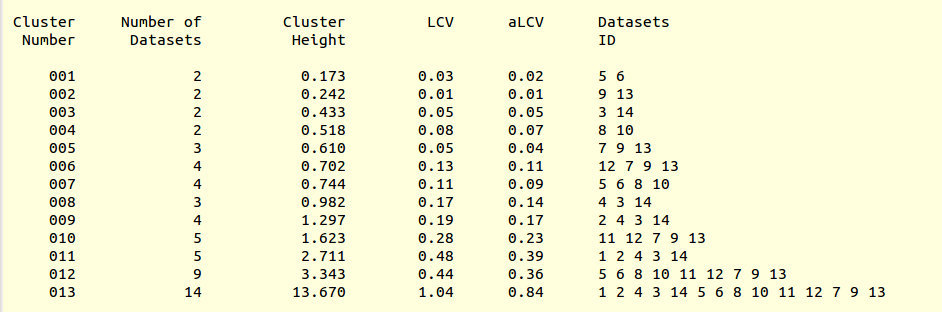
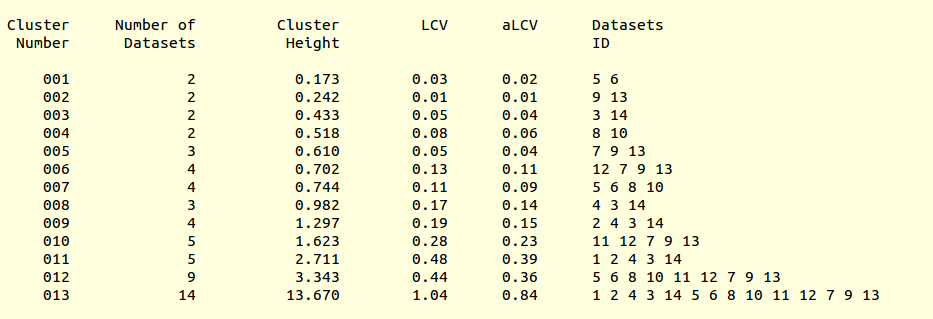
CHANGES IN VERSION 0.5.8 - 08/10/2014 - Further bug fixes for aLCV calculation

diff --git a/additional_material/BLEND_tutorial.html b/additional_material/BLEND_tutorial.html
@@ -495,9 +495,9 @@ interface, but the user
  <FONT SIZE=4>
  Cluster
  numbers and corresponding data sets are listed in column 1 and column
- 5 respectively. The second column reports how many data sets form the
+ 6 respectively. The second column reports how many data sets form the
  specific cluster, while in column 3 it is found the exact height at
- which data sets merge to form the cluster. Column 4 lists all LCV
+ which data sets merge to form the cluster. Columns 4 and 5 lists all LCV and aLCV
  values. The dendrogram encourages people to look for grouping of
  individual data sets. Larger groups attract one's attention more than
  smaller groups. In this sense the presence of two clusters, cluster
@@ -1154,7 +1154,7 @@ interface, but the user
 <P>
  <FONT SIZE=4>
  As
- we can see, the new LCV is much smaller, although the value 1.68% (and the absolute LCV value 1.46 &Aring;)
+ we can see, the new LCV is much smaller, although the value 1.68% (and the absolute LCV value 1.54 &Aring;)
  still indicates some non-isomorphism among all crystals. We know this
  is the case because crystals have been assembled from
  differently-prepared structures. Indeed, LCV values computed

diff --git a/src/blend.cpp b/src/blend.cpp
@@ -10,6 +10,8 @@
 /********* included in the root directory of this package.                                          *********/
 /************************************************************************************************************/
 /************************************************************************************************************/
+// CHANGES IN VERSION 0.5.8 - 08/10/2014
+// - Further bug fixes for aLCV calculation
 // CHANGES IN VERSION 0.5.7 - 07/10/2014
 // - Fixed bug for aLCV calculation
 // CHANGES IN VERSION 0.5.6 - 03/10/2014
